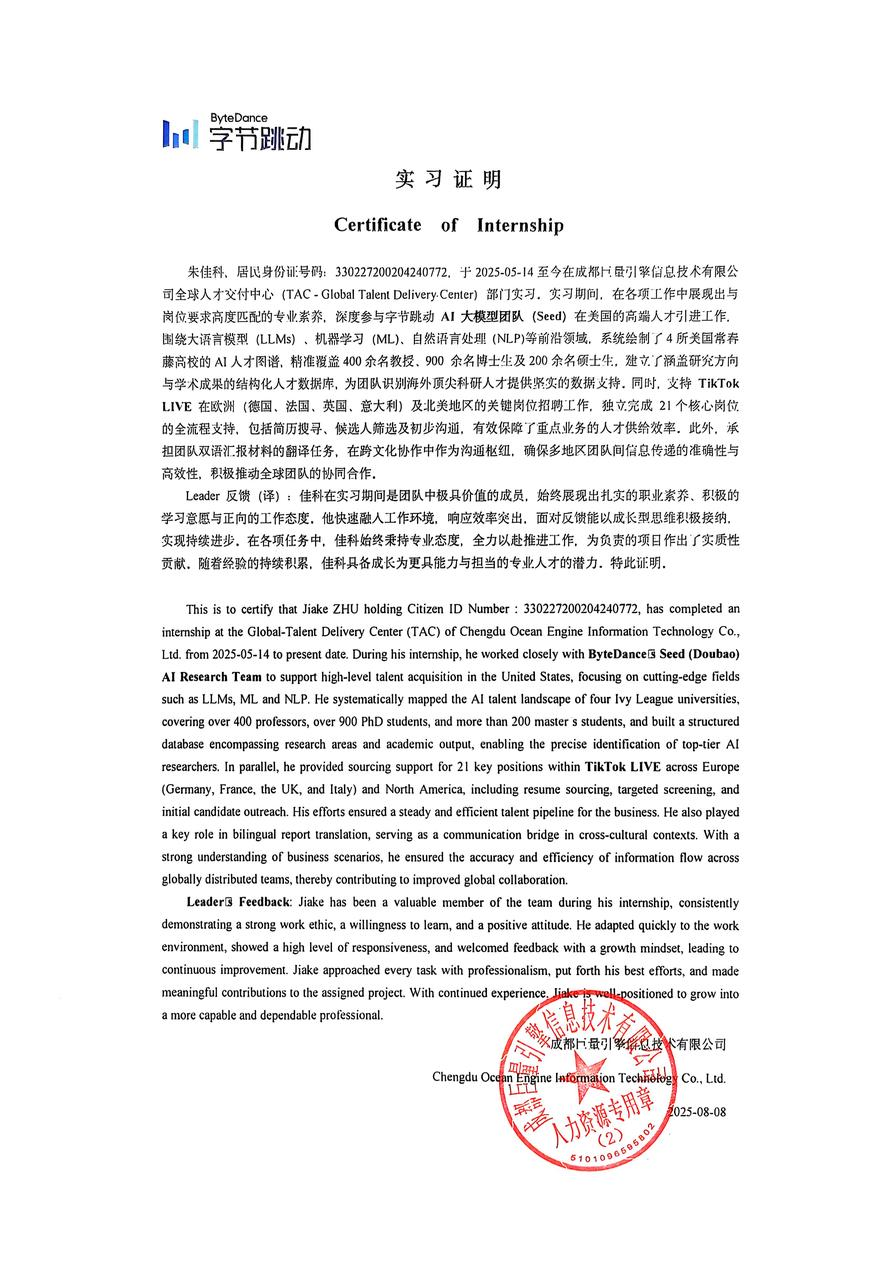
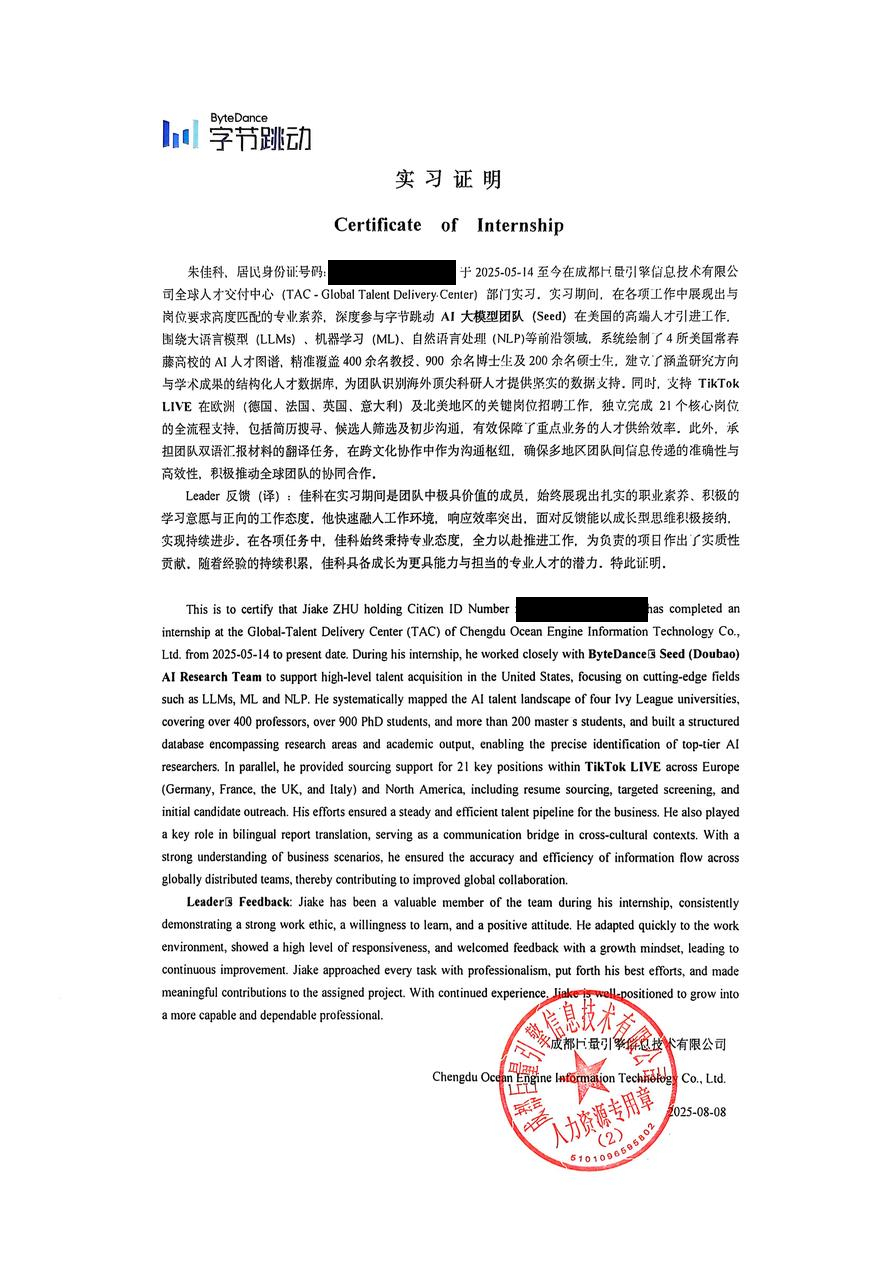
Redact identity number from all public ByteDance letter copies

Changed region(s): [[0.3699, 0.1875, 0.524, 0.25], [0.5856, 0.4688, 0.7397, 0.5]]

diff --git a/index.html b/index.html
@@ -1468,8 +1468,8 @@
 <div id="modal-bytedance-rec" class="life-modal">
   <div class="modal-header"><div class="modal-title">📄 <span data-lang="en" class="show">Recommendation Letter — ByteDance</span><span data-lang="fr">Lettre de recommandation — ByteDance</span><span data-lang="es">Carta de recomendación — ByteDance</span><span data-lang="zh">推荐信 · 字节跳动</span></div><button class="modal-close" onclick="closeAllModals()">✕</button></div>
   <div class="modal-body" style="text-align:center;">
-    <div class="rec-img-wrap"><a href="images/bytedance1.jpeg" target="_blank"><img alt="ByteDance recommendation" data-modal-src="images/web/64132b292ab9-876.webp" width="876" height="1280" decoding="async" loading="lazy" data-modal-srcset="images/web/64132b292ab9-400.webp 400w, images/web/64132b292ab9-800.webp 800w, images/web/64132b292ab9-876.webp 876w" sizes="(max-width: 600px) 90vw, 650px"></a></div>
-    <p style="font-size:0.8rem;color:var(--muted);"><span data-lang="en" class="show">Click image to view full size</span><span data-lang="fr">Cliquez sur l'image pour voir en taille réelle</span><span data-lang="es">Haz clic en la imagen para verla en tamaño completo</span><span data-lang="zh">点击图片查看原图</span></p>
+    <div class="rec-img-wrap"><a href="images/bytedance1-redacted.png" target="_blank"><img alt="ByteDance recommendation letter — ID redacted" data-modal-src="images/web/eaa0c11a3d93-876.webp" width="876" height="1280" decoding="async" loading="lazy" data-modal-srcset="images/web/eaa0c11a3d93-400.webp 400w, images/web/eaa0c11a3d93-800.webp 800w, images/web/eaa0c11a3d93-876.webp 876w" sizes="(max-width: 600px) 90vw, 650px"></a></div>
+    <p style="font-size:0.8rem;color:var(--muted);"><span data-lang="en" class="show">Click image to view full size (ID redacted)</span><span data-lang="fr">Cliquez pour agrandir (numéro d’identité masqué)</span><span data-lang="es">Haz clic para ampliar (número de identidad oculto)</span><span data-lang="zh">点击图片查看高清版（证件号已遮盖）</span></p>
   </div>
 </div>
 

diff --git a/history/2026-08-26/README.md b/history/2026-08-26/README.md
@@ -3,7 +3,7 @@
 - Source: `jiakezhu/jiakezhu.github.io`, default branch `main`.
 - Source commit: [`6a98c9919e5b3316fd119eaddaf90409b32d0aec`](https://github.com/jiakezhu/jiakezhu.github.io/commit/6a98c9919e5b3316fd119eaddaf90409b32d0aec), 2026-08-26.
 - Captured on 2026-10-04. The live homepage fetched that day matched the source homepage byte-for-byte.
-- `site/` contains the original 64 HTML/image files (19,801,124 bytes). Keep these unchanged. `snapshot.json` records lengths and SHA-256 hashes; `npm test` checks integrity and local HTML references.
+- The original capture contains 64 HTML/image files (19,801,124 bytes). One narrow privacy exception was applied on 2026-11-01: the citizen ID in both language lines of `site/images/bytedance1.jpeg` is covered by flattened opaque blocks. The rest of the letter, including the signature and seal, is retained. All other 63 captured files remain unchanged. `snapshot.json` preserves the captured checksum and size in `privacyExceptions`, records the safe replacement checksum and size, and keeps strict integrity and local-reference checks for all 64 files. No other archive edits are exempt.
 - `index.html` is a separate modern wrapper with return links and four-language labels. It may switch the iframe language through the original page’s language function, without editing the stored files.
 - External destinations, Google fonts, Leaflet CDN and external map services remain original. This is a historical site snapshot, not a capture of every linked online service. The wrapper identifies it as historical and excludes it from indexing.
 - Screenshot: `../../images/site-history/2026-08-26-desktop.webp`, taken from the stored site in Chrome on 2026-10-04. The redesign screenshot next to it is taken from the local preview on the same day. Both are compressed WebP, 1137 × 751 pixels.
